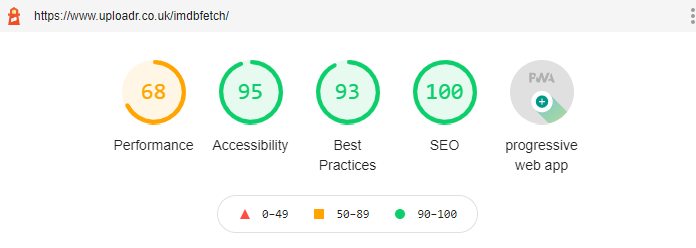
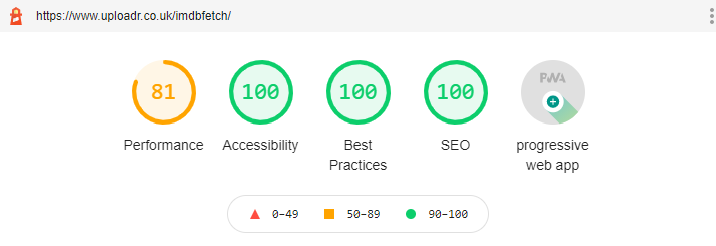
Further perf improvements

diff --git a/src/movie.tsx b/src/movie.tsx
@@ -13,7 +13,9 @@ export const Movie = (props: BoxOfficeItem & { movie: Title | null }) => {
         <>
             <div
                 className={"subContainer"}
-                style={{ backgroundImage: `url(${props.image})` }}
+                style={{
+                    backgroundImage: `url(${convertAWSImage(props.image, 50)})`,
+                }}
             />
             <div className={"container"}>
                 <h2>{props.movie.title}</h2>
@@ -33,7 +35,7 @@ export const Movie = (props: BoxOfficeItem & { movie: Title | null }) => {
                     >
                         <img
                             className="movieImage"
-                            src={convertAWSImage(props.movie.image)}
+                            src={convertAWSImage(props.movie.image, 500)}
                             alt={`image of ${props.movie.title} poster`}
                         />
                     </a>
@@ -103,7 +105,7 @@ export function getFullSizeImg(input: string): string {
 export function convertAWSImage(input: string, resolution: number = 1000) {
     const ratio = getRatio(input);
     const left = resolution;
-    const right = left * ratio;
+    const right = Math.floor(left * ratio);
     const param = `._V1_UX${left}_CR0,50,${left},${right}.jpg`;
     const splitInput = input.split("._V1_")[0];
     return `${splitInput}${param}`;

diff --git a/src/actor.tsx b/src/actor.tsx
@@ -2,6 +2,7 @@ import React from "react";
 import { ActorType } from "../types";
 
 import "./actor.scss";
+import { convertAWSImage } from "./movie";
 
 const noImgUrl = "https://imdb-api.com/images/original/nopicture.jpg";
 const fallbackUrl =
@@ -22,7 +23,9 @@ export const Actor = (props: ActorType) => {
                     className="actorImageCircle"
                     style={{
                         backgroundImage: `url(${
-                            props.image !== noImgUrl ? props.image : fallbackUrl
+                            props.image !== noImgUrl
+                                ? convertAWSImage(props.image, 200)
+                                : fallbackUrl
                         })`,
                     }}
                 >
